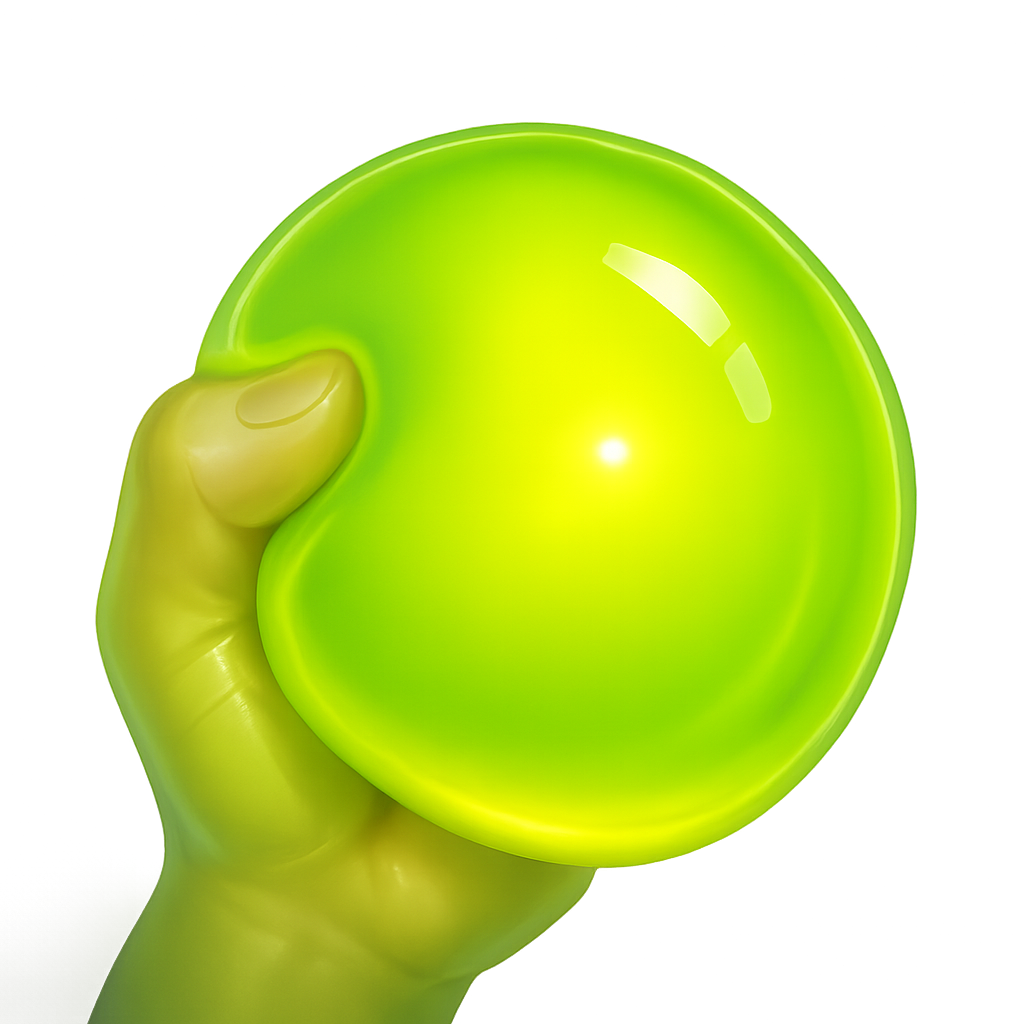
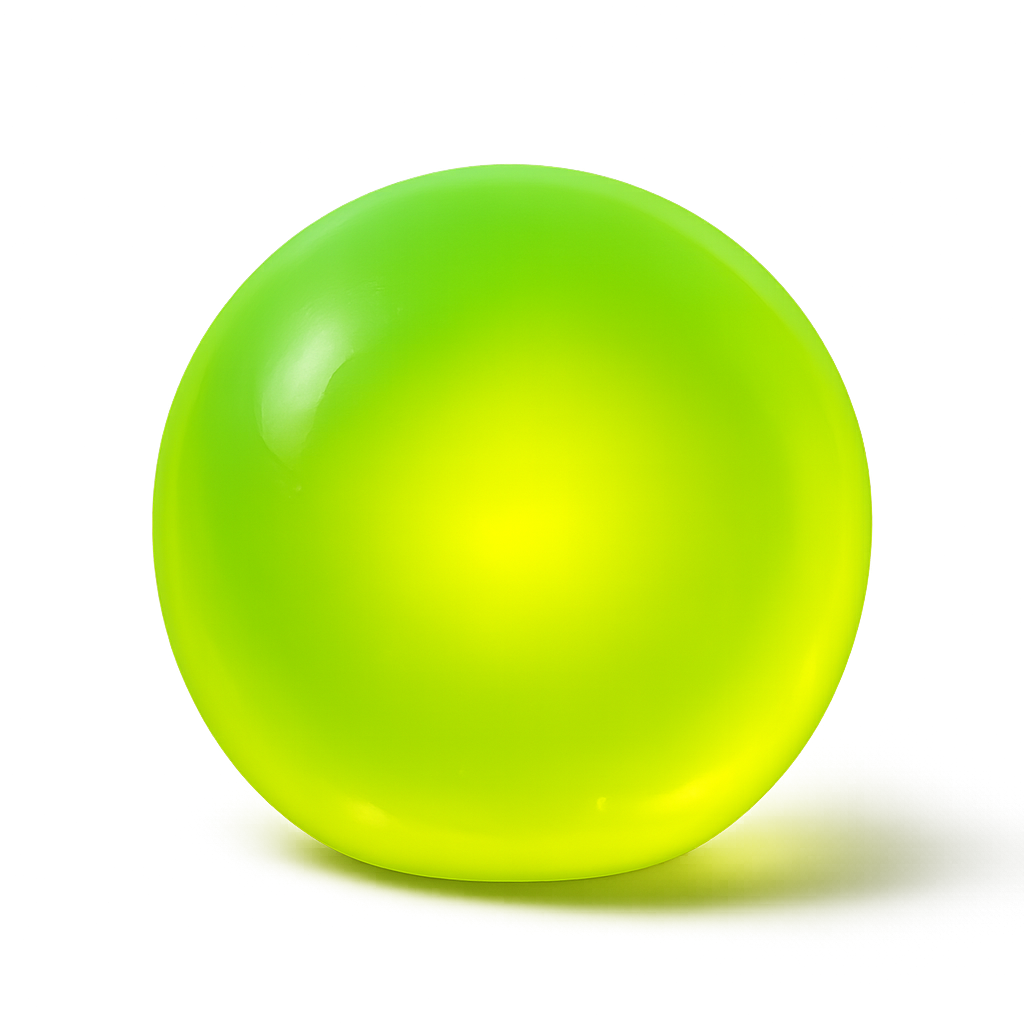
Hero: weapons in hand across all 6 stages + hand-free Nee-Doh squishies
P3 — weapons in the hero's hands (parent: across ALL 6 character stages):
- 21 armed-hero rasters (teddy-m{0,1,2}-<weapon> for hammer/sword/lasso/bow;
  teddy-knight-m{0,1,2}-<weapon> for sword/mace/lance), edited on-model from each tier base.
- paintBase + heroMarquee: when a weapon is loaded out, show the ARMED variant for the current
  stage (he holds it); onerror falls back to the unarmed tier image so it never breaks.

Also: regenerated the Nee-Doh squishies with NO hands/fingers (parent — "Groovy Glob showed a thumb").

Render-gate: basearmed (Super Teddy/tier1 holding Gem Sword) + basearmed2 (Soldier knight holding
War Mace) PASS — armed across stages, distinct villains, painted weapon tiles. ui-emoji/curriculum/save green.

diff --git a/game.js b/game.js
@@ -331,7 +331,12 @@ function heroProgress(){ const a=currentAct(), am=actMissions(a), total=am.lengt
    (both have a painted m0/m1/m2 set). Any other theme falls back to parametric SVG.
    heroOpts() supplies the muscle tier + theme. Hero Base keeps heroNow() so the
    Loadout still shows the equipped weapon/cape in the parametric pose. */
-function heroMarquee(w){ const o=heroOpts(); return (o.theme==="hero"||o.theme==="knight") ? teddyArt(w,o.muscle,o.theme) : heroSVG(w,o); }
+function heroMarquee(w){ const o=heroOpts();
+  if(o.theme!=="hero"&&o.theme!=="knight") return heroSVG(w,o);
+  const m=Math.max(0,Math.min(2,o.muscle|0)), base=(o.theme==="knight"?"teddy-knight-m":"teddy-m")+m;
+  /* armed variant (he holds the equipped weapon) when one is loaded out, else the plain tier */
+  const file=(o.weapon&&o.weapon!=="none")?base+"-"+o.weapon:base;
+  return rasterArt(file, w, o.theme==="knight"?"#ffba4a":"#ffce3a", o.theme==="knight"?"#c77a2a":"#3a7bff"); }
 /* ---------------- SCREEN MGMT ---------------- */
 const $=id=>document.getElementById(id);
 /* Painted-scene slots: screen -> art/bg-<name>.* . Add an image to swap a scene;
@@ -1502,10 +1507,13 @@ function showBase(){ clearFlow(); show("scrBase");
   else Aud.play("base1");
 }
 function paintBase(){
-  /* painted raster hero as a CLEAN cutout (no rasterArt aura/contact-shadow halo) — seated on the
-     painted pedestal with a soft CSS drop-shadow. teddy-m* (Act 1) / teddy-knight-m* (Act 2). */
-  { const o=heroOpts(), m=Math.max(0,Math.min(2,o.muscle|0)), file=(o.theme==="knight"?"teddy-knight-m":"teddy-m")+m;
-    $("baseHero").innerHTML='<img class="baseheroimg" src="art/'+file+'.png" alt="" draggable="false">'; }
+  /* painted raster hero as a CLEAN cutout (no aura/halo), seated on the pedestal. Per stage (m0-m2 ×
+     hero/knight) and, when a weapon is equipped, the ARMED variant teddy[-knight]-m<tier>-<weapon>
+     (he holds it). onerror falls back to the unarmed tier image so it can never break. */
+  { const o=heroOpts(), m=Math.max(0,Math.min(2,o.muscle|0)), base=(o.theme==="knight"?"teddy-knight-m":"teddy-m")+m;
+    const armed=!!(o.weapon&&o.weapon!=="none"), file=armed?base+"-"+o.weapon:base;
+    $("baseHero").innerHTML='<img class="baseheroimg" src="art/'+file+'.png" alt="" draggable="false"'
+      +(armed?' onerror="this.onerror=null;this.src=\'art/'+base+'.png\'"':'')+'>'; }
   const o=heroOpts();
   { const hp=heroProgress(); $("powerLbl").textContent=hp.name;
     const pf=$("powerFill"); if(pf){ pf.style.width=hp.pct+"%"; pf.classList.toggle("maxed",hp.max&&hp.pct>=100); } }
